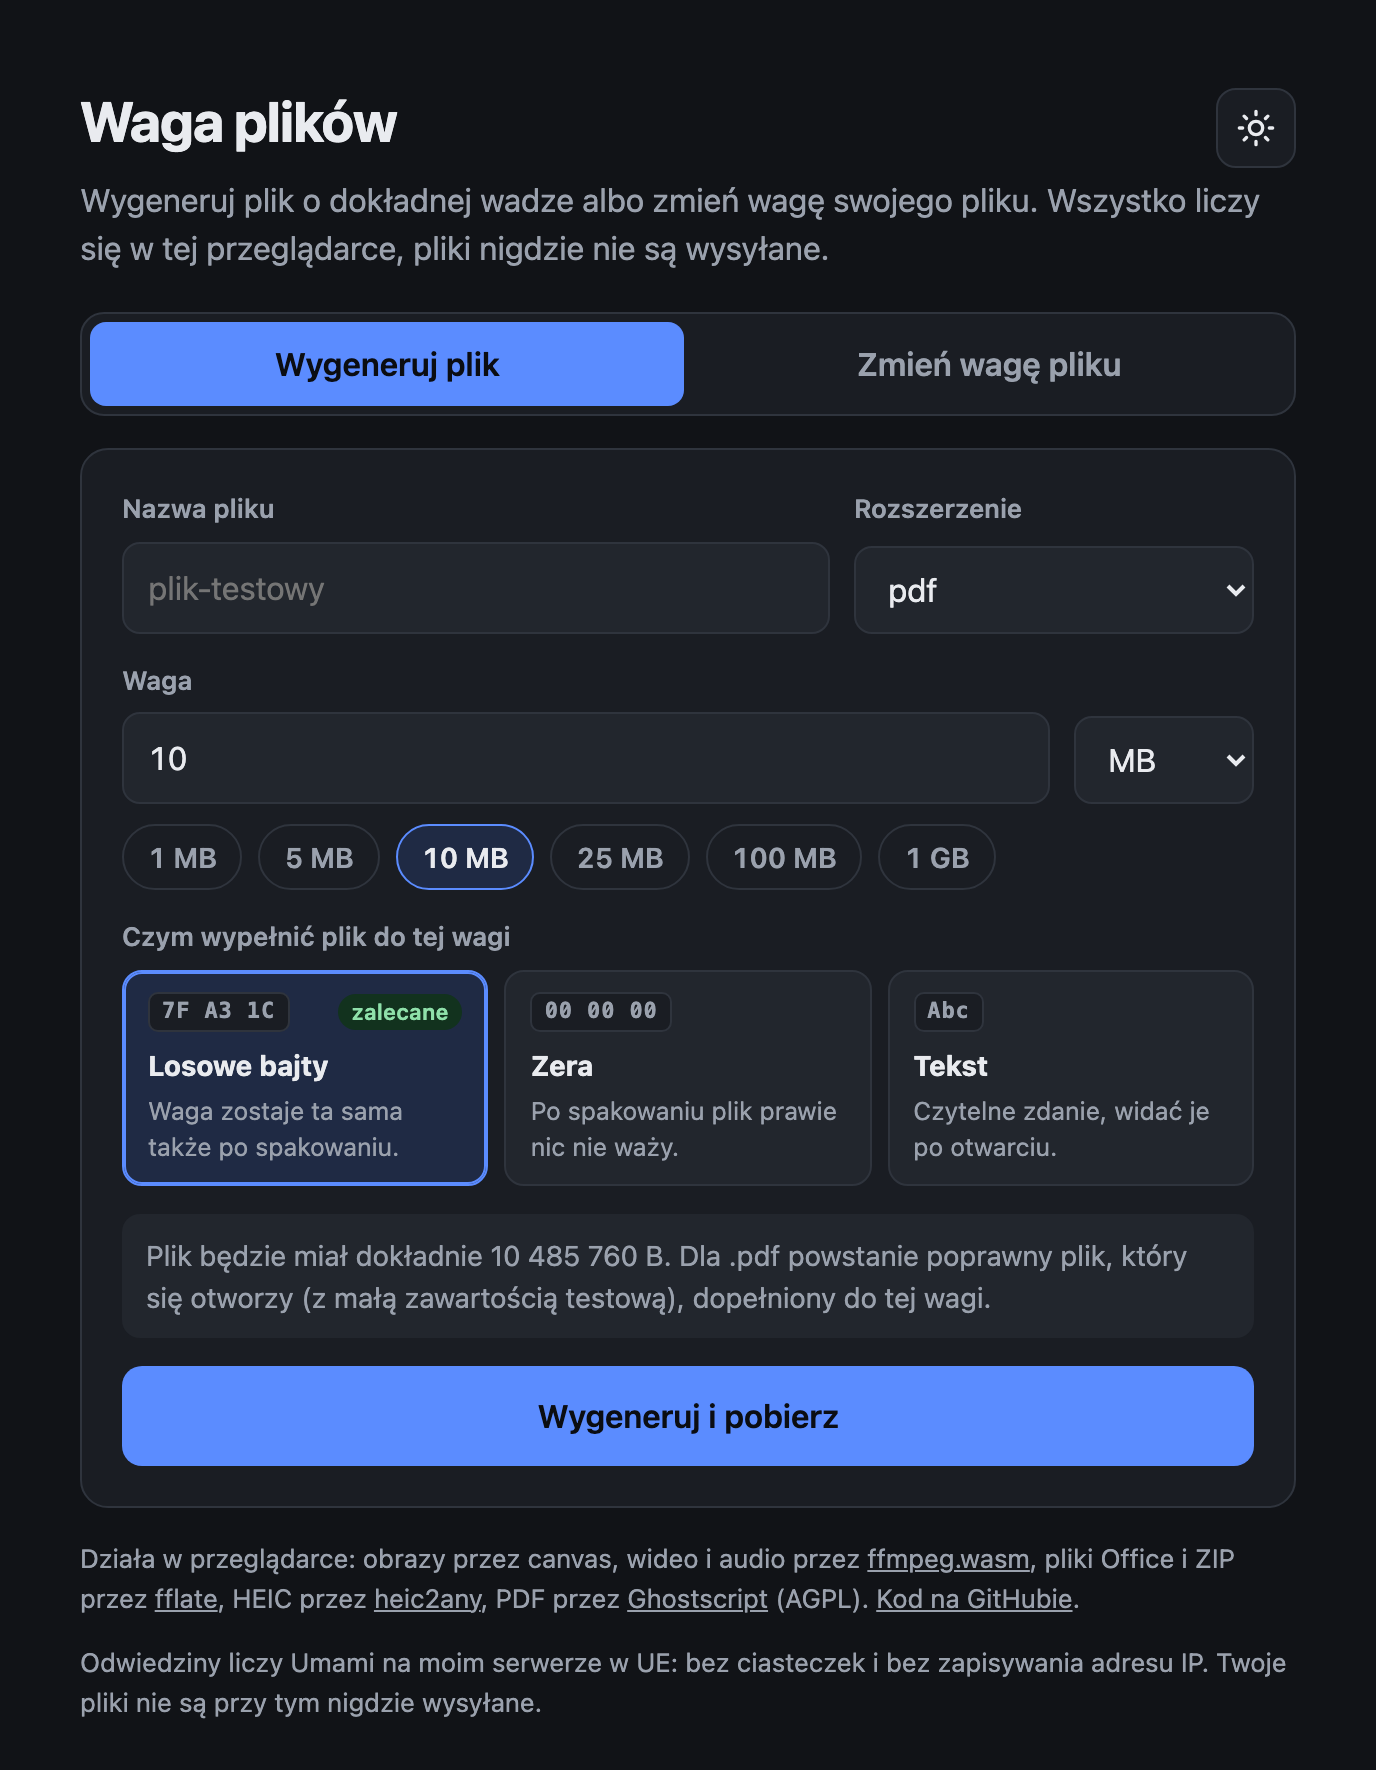
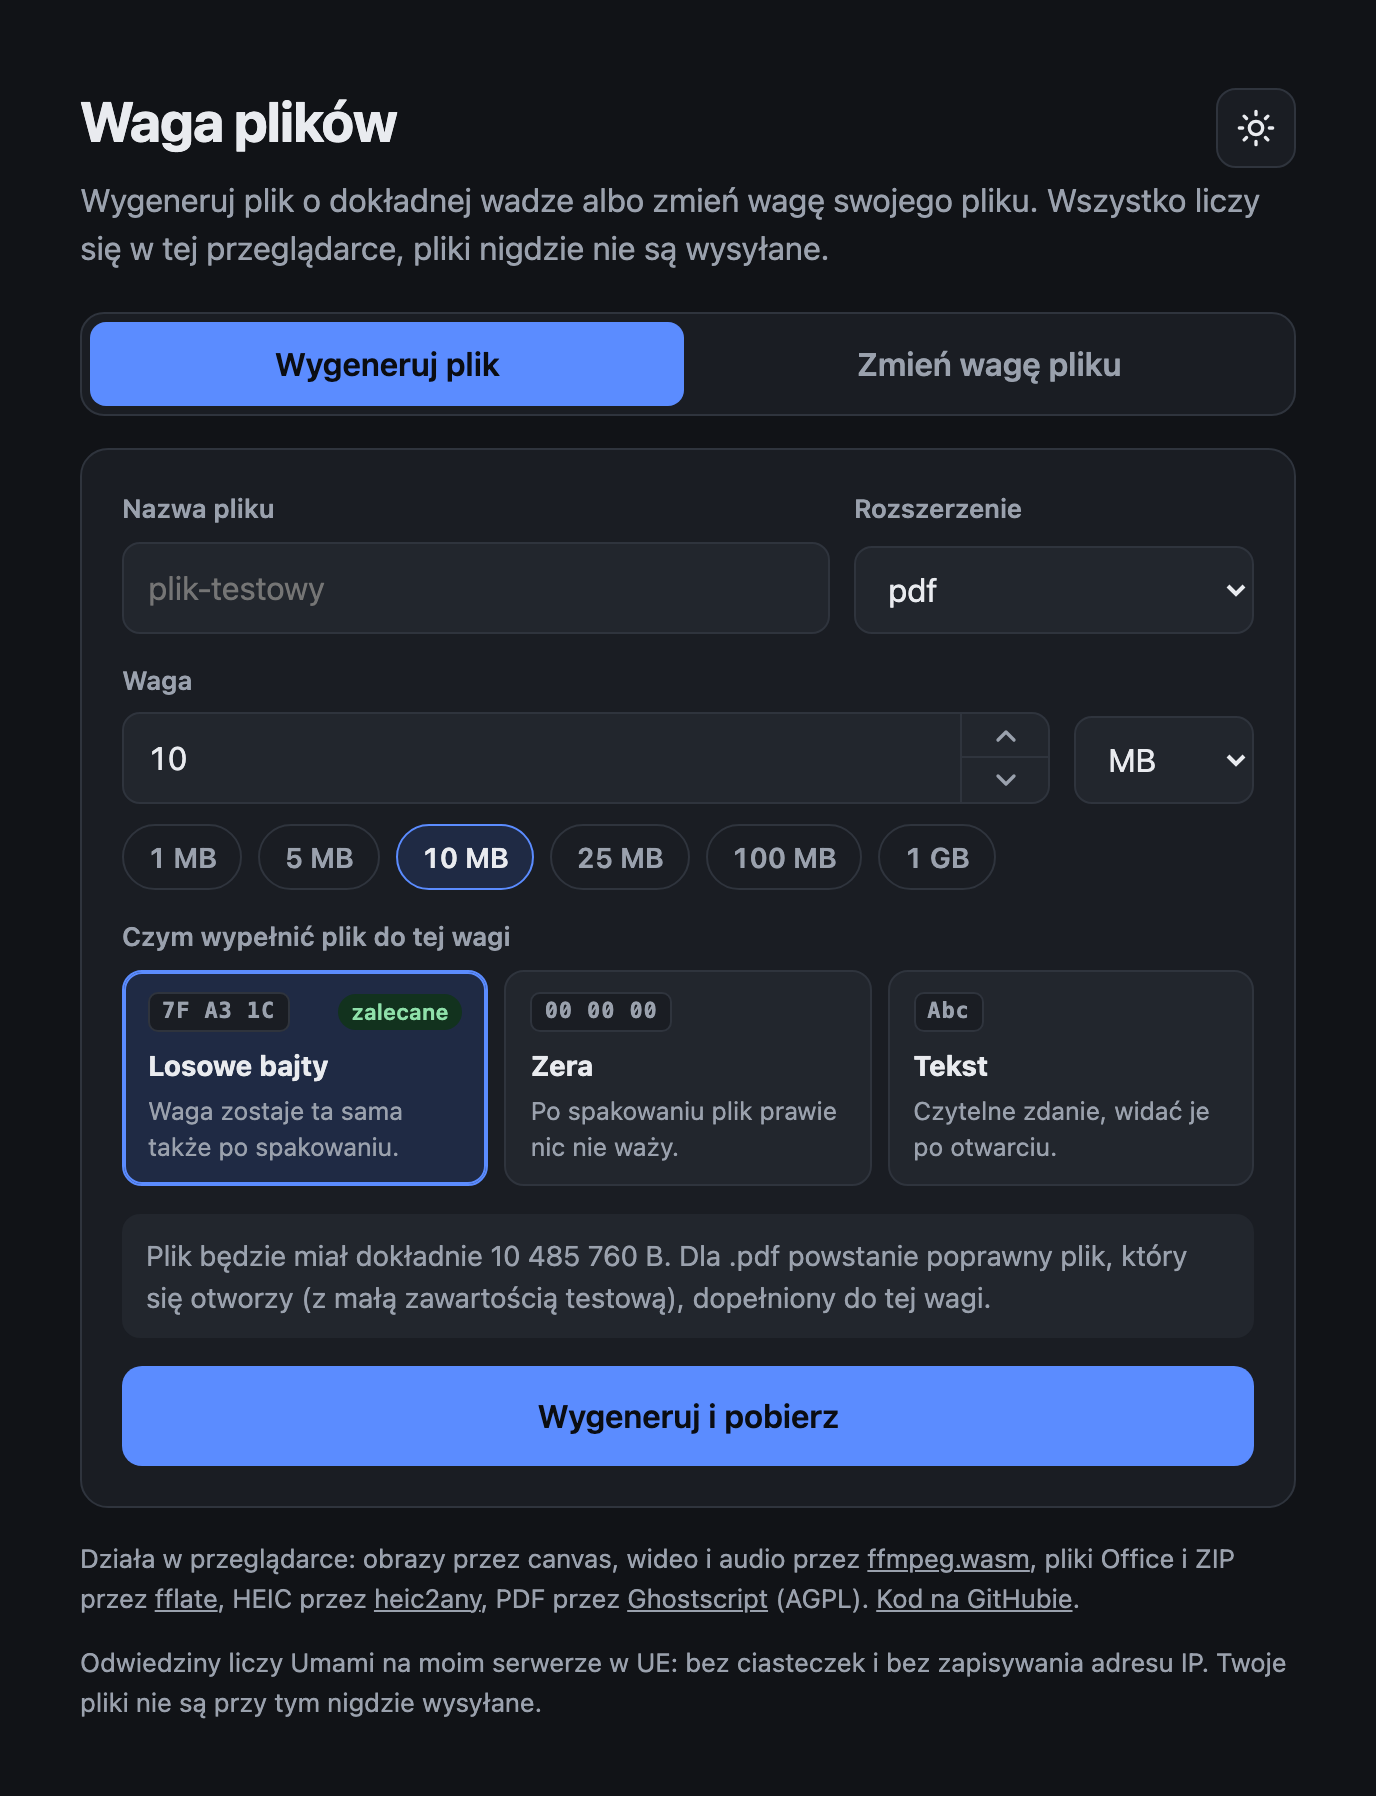
Strzałki przy polu wagi: krok dopasowany do liczby, B i KB w całości

diff --git a/app.js b/app.js
@@ -955,6 +955,7 @@ function selectedExt() {
 }
 
 function updateGenerateNote() {
+  updateStepHints(els.gSize, els.gUnit);
   const ext = selectedExt();
   const size = parseSize(els.gSize.value, els.gUnit.value);
   if (!ext) return setNote(els.gNote, 'Wpisz własne rozszerzenie, np. mp4.', 'warn');
@@ -990,6 +991,7 @@ function resizePlan() {
 }
 
 function updateResizeNote() {
+  updateStepHints(els.rSize, els.rUnit);
   const plan = resizePlan();
   els.rRun.disabled = busy || !plan || ['none', 'same', 'unsupported'].includes(plan.kind);
   if (!plan) return setNote(els.rNote, '');
@@ -1074,6 +1076,59 @@ function onPreset(box, input, unitSelect, after) {
     after();
     markPreset(box);
   });
+}
+
+// ---------- arrow steppers ----------
+
+// One click moves the number by a step you can see: 10 MB jumps by 1, 100 MB by 10, 1 MB by 0.1.
+const STEP_LADDER = [0.1, 0.5, 1, 5, 10, 25, 50, 100, 250, 500];
+
+function stepFor(value, unit) {
+  const ideal = Math.abs(value) / 10;
+  let step = STEP_LADDER[0];
+  for (const s of STEP_LADDER) if (s <= ideal) step = s;
+  // Bytes and kilobytes come in whole numbers, so a finer step there would round away.
+  return Number(unit) <= 1 ? Math.max(1, Math.round(step)) : step;
+}
+
+// Where the arrows start when the field is empty: the file being resized, otherwise 1.
+function stepBase(input, unit) {
+  const typed = parseFloat(String(input.value).replace(',', '.').replace(/\s/g, ''));
+  if (Number.isFinite(typed) && typed > 0) return typed;
+  return input === els.rSize && currentFile ? currentFile.size / base() ** Number(unit) : 1;
+}
+
+function stepField(input, unitSelect, direction) {
+  const unit = Number(unitSelect.value);
+  const from = stepBase(input, unit);
+  const step = stepFor(from, unit);
+  let next = from + direction * step;
+  if (next < step) next = step;            // never step down to zero
+  if (unit === 0) next = Math.round(next); // bytes come in whole numbers
+  input.value = (Math.round(next * 100) / 100).toLocaleString('pl-PL', { maximumFractionDigits: 2, useGrouping: false });
+}
+
+// The buttons say what a click does, because the step follows the number in the field.
+function updateStepHints(input, unitSelect) {
+  const unit = unitSelect.value;
+  const step = stepFor(stepBase(input, unit), unit);
+  const text = `${step.toLocaleString('pl-PL', { maximumFractionDigits: 2 })} ${unitSelect.options[unitSelect.selectedIndex].text}`;
+  const box = input.closest('.stepper');
+  for (const [dir, verb] of [['up', 'Zwiększ'], ['down', 'Zmniejsz']]) {
+    const button = box.querySelector(`[data-dir="${dir}"]`);
+    button.title = `${verb} o ${text}`;
+    button.setAttribute('aria-label', `${verb} wagę o ${text}`);
+  }
+}
+
+function wireStepper(input, unitSelect, after) {
+  const box = input.closest('.stepper');
+  for (const dir of ['up', 'down']) {
+    box.querySelector(`[data-dir="${dir}"]`).addEventListener('click', () => {
+      stepField(input, unitSelect, dir === 'up' ? 1 : -1);
+      after();
+    });
+  }
 }
 
 async function runGenerate() {
@@ -1165,21 +1220,25 @@ function setMode(value) {
 }
 
 els.mode.addEventListener('change', applyMode);
-[els.gExt, els.gSize, els.gUnit].forEach((el) => el.addEventListener('input', () => {
+const refreshGenerate = () => {
   updateGenerateNote();
   markPreset(els.gPresets);
-}));
+};
+const refreshResize = () => {
+  updateResizeNote();
+  markPreset(els.rPresets);
+};
+[els.gExt, els.gSize, els.gUnit].forEach((el) => el.addEventListener('input', refreshGenerate));
 els.gExtSelect.addEventListener('change', () => {
   els.gExtCustom.hidden = els.gExtSelect.value !== 'other';
   if (!els.gExtCustom.hidden) els.gExt.focus();
   updateGenerateNote();
 });
-[els.rSize, els.rUnit].forEach((el) => el.addEventListener('input', () => {
-  updateResizeNote();
-  markPreset(els.rPresets);
-}));
+[els.rSize, els.rUnit].forEach((el) => el.addEventListener('input', refreshResize));
 onPreset(els.gPresets, els.gSize, els.gUnit, updateGenerateNote);
 onPreset(els.rPresets, els.rSize, els.rUnit, updateResizeNote);
+wireStepper(els.gSize, els.gUnit, refreshGenerate);
+wireStepper(els.rSize, els.rUnit, refreshResize);
 els.gRun.addEventListener('click', runGenerate);
 els.rRun.addEventListener('click', runResize);
 
@@ -1272,3 +1331,4 @@ applyMode();
 els.gExtCustom.hidden = els.gExtSelect.value !== 'other';
 updateGenerateNote();
 markPreset(els.gPresets);
+updateStepHints(els.rSize, els.rUnit);

diff --git a/index.html b/index.html
@@ -104,10 +104,20 @@
         </label>
       </div>
       <div class="row nowrap">
-        <label class="field grow">
-          <span>Waga</span>
-          <input id="g-size" value="10" inputmode="decimal" autocomplete="off">
-        </label>
+        <div class="field grow">
+          <label for="g-size">Waga</label>
+          <div class="stepper">
+            <input id="g-size" value="10" inputmode="decimal" autocomplete="off">
+            <div class="stepper-btns">
+              <button type="button" data-dir="up" aria-label="Zwiększ wagę" title="Zwiększ wagę">
+                <svg viewBox="0 0 24 24" aria-hidden="true"><path d="M6 15l6-6 6 6"/></svg>
+              </button>
+              <button type="button" data-dir="down" aria-label="Zmniejsz wagę" title="Zmniejsz wagę">
+                <svg viewBox="0 0 24 24" aria-hidden="true"><path d="M6 9l6 6 6-6"/></svg>
+              </button>
+            </div>
+          </div>
+        </div>
         <label class="field unit">
           <span>&nbsp;</span>
           <select id="g-unit" aria-label="Jednostka wagi">
@@ -168,10 +178,20 @@
         <span id="drop-sub">albo kliknij, żeby wybrać</span>
       </label>
       <div class="row nowrap">
-        <label class="field grow">
-          <span>Docelowa waga</span>
-          <input id="r-size" inputmode="decimal" autocomplete="off" placeholder="np. 90">
-        </label>
+        <div class="field grow">
+          <label for="r-size">Docelowa waga</label>
+          <div class="stepper">
+            <input id="r-size" inputmode="decimal" autocomplete="off" placeholder="np. 90">
+            <div class="stepper-btns">
+              <button type="button" data-dir="up" aria-label="Zwiększ wagę" title="Zwiększ wagę">
+                <svg viewBox="0 0 24 24" aria-hidden="true"><path d="M6 15l6-6 6 6"/></svg>
+              </button>
+              <button type="button" data-dir="down" aria-label="Zmniejsz wagę" title="Zmniejsz wagę">
+                <svg viewBox="0 0 24 24" aria-hidden="true"><path d="M6 9l6 6 6-6"/></svg>
+              </button>
+            </div>
+          </div>
+        </div>
         <label class="field unit">
           <span>&nbsp;</span>
           <select id="r-unit" aria-label="Jednostka docelowej wagi">

diff --git a/style.css b/style.css
@@ -155,7 +155,7 @@ h1 { margin: 0 0 6px; font-size: 28px; letter-spacing: -0.02em; }
 .field.grow { flex: 1 1 220px; }
 .field.ext { flex: 0 1 200px; }
 .field.unit { flex: 0 0 90px; }
-.field > span { font-size: 13px; font-weight: 600; color: var(--muted); }
+.field > span, .field > label { font-size: 13px; font-weight: 600; color: var(--muted); }
 
 input, select, button { font: inherit; color: inherit; }
 
@@ -167,6 +167,39 @@ input:not([type]), input[inputmode], select {
   background: var(--field);
 }
 input[inputmode] { font-variant-numeric: tabular-nums; }
+
+/* Arrow steppers: the field and a stacked pair of buttons read as one control. */
+.stepper { display: flex; align-items: stretch; border-radius: 9px; }
+.stepper input { flex: 1 1 auto; min-width: 0; border-top-right-radius: 0; border-bottom-right-radius: 0; }
+/* The focus ring goes around the whole control, not just the text box. */
+.stepper input:focus-visible { outline: none; }
+.stepper:focus-within { outline: 2px solid var(--accent); outline-offset: 1px; }
+.stepper-btns {
+  flex: none;
+  display: grid;
+  grid-template-rows: 1fr 1fr;
+  width: 44px;
+  border: 1px solid var(--line);
+  border-left: 0;
+  border-radius: 0 9px 9px 0;
+  background: var(--field);
+  overflow: hidden;
+}
+.stepper-btns button {
+  display: grid;
+  place-items: center;
+  padding: 0;
+  border: 0;
+  border-radius: 0;
+  background: transparent;
+  color: var(--muted);
+  touch-action: manipulation;
+}
+.stepper-btns button:first-child { border-bottom: 1px solid var(--line); }
+.stepper-btns button:hover { background: var(--accent-soft); color: var(--accent); }
+.stepper-btns button:active { background: var(--accent-soft); color: var(--accent); }
+.stepper-btns button:focus-visible { outline: 2px solid var(--accent); outline-offset: -2px; }
+.stepper-btns svg { width: 16px; height: 16px; fill: none; stroke: currentColor; stroke-width: 2.5; stroke-linecap: round; stroke-linejoin: round; }
 
 input:focus-visible, select:focus-visible, button:focus-visible, .drop:focus-within {
   outline: 2px solid var(--accent);

diff --git a/README.md b/README.md
@@ -22,7 +22,7 @@ Testuję aplikacje i musiałem sprawdzać, jak radzą sobie z wgrywaniem plików
 
 ## Co potrafi
 
-**Wygenerować plik o zadanej wadze, co do bajta.** Wybierasz rozszerzenie, wpisujesz wagę (z przecinkiem albo kropką, np. `95,5`) i pobierasz. Dla popularnych formatów powstaje prawdziwy plik, który się otwiera:
+**Wygenerować plik o zadanej wadze, co do bajta.** Wybierasz rozszerzenie, wpisujesz wagę (z przecinkiem albo kropką, np. `95,5`) albo zmieniasz ją strzałkami przy polu, i pobierasz. Dla popularnych formatów powstaje prawdziwy plik, który się otwiera:
 
 `pdf` `docx` `odt` `rtf` `txt` `xlsx` `csv` `ods` `pptx` `heic` `jpg` `png` `webp` `gif` `bmp` `svg` `zip`
 
@@ -34,7 +34,7 @@ Domyślnie plik jest dopełniany losowymi bajtami, których nie da się skompres
 
 **Liczyć jak Chrome i Windows.** 1 MB = 1024 KB, tak jak liczy Chrome, Windows i większość limitów uploadu. Finder liczy 1 MB = 1000 KB, więc przy wyniku strona pokazuje wagę w obu systemach.
 
-Do tego tryb jasny i ciemny, szybkie wagi jednym kliknięciem i porównanie przed/po.
+Do tego tryb jasny i ciemny, szybkie wagi jednym kliknięciem i porównanie przed/po. Strzałki przy polu wagi idą krokami dopasowanymi do liczby: przy 10 MB o 1 MB, przy 100 MB o 10 MB, przy 1 MB o 0,1 MB.
 
 ## Prywatność
 
